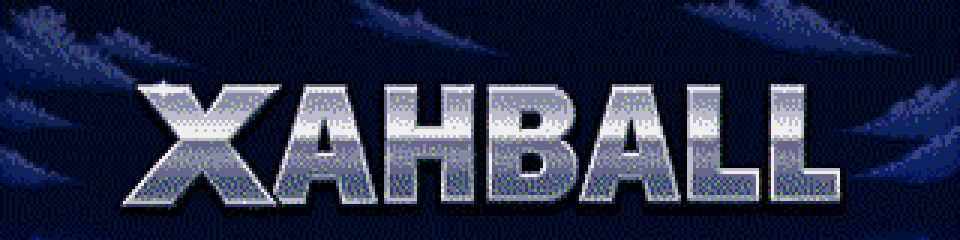
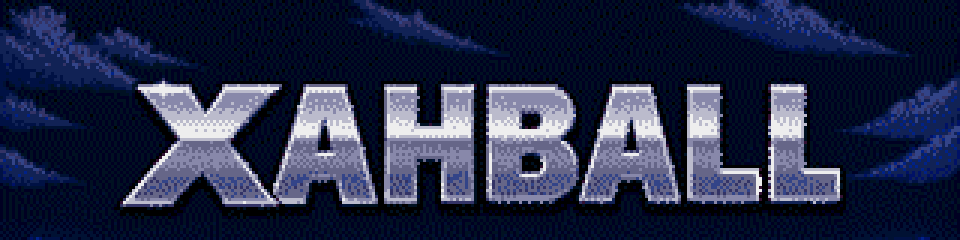
Ship ball sprite in builds, plain 1v1 player discs, art refresh
- CMake: ball.png was never converted, so release/CI archives had no
  data/ball.bm / ball.msk and the match could not load the ball (local
  builds only worked thanks to a stale file in the build dir). Players
  had to copy them over from another download.
- 1v1 uses new un-numbered teamA/teamB discs (normal/flash/ready);
  2v2/3v3 keep the numbered ones. make_sprites.py generates both.
- Updated title artwork and itch cover/banner.

diff --git a/game/src/match_render.c b/game/src/match_render.c
@@ -19,7 +19,8 @@
 // (render-private state)
 
 // Numbered kit sprites, [side][slot 0..2] - the slot number is baked into
-// the sprite so players are distinguishable on the pitch
+// the sprite so players are distinguishable on the pitch (1v1 loads the
+// plain un-numbered disc into every slot instead)
 static tDiscSprite *s_pSpriteKit[2][SLOTS_PER_SIDE];
 static tDiscSprite *s_pSpriteKitFlash[2][SLOTS_PER_SIDE];
 static tDiscSprite *s_pSpriteKitReady[2][SLOTS_PER_SIDE];
@@ -115,11 +116,16 @@ void matchRenderLoadSprites(void) {
 	char szBm[32], szMsk[32];
 	for(UBYTE ubSide = 0; ubSide < 2; ++ubSide) {
 		for(UBYTE ubNum = 0; ubNum < SLOTS_PER_SIDE; ++ubNum) {
+			// 1v1: a lone player needs no number - use the plain disc
+			char szNum[2] = {0, 0};
+			if(g_sMatchConfig.ubPlayersPerSide > 1) {
+				szNum[0] = '1' + ubNum;
+			}
 			for(UBYTE ubVar = 0; ubVar < 3; ++ubVar) {
-				sprintf(szBm, "data/team%s%d%s.bm",
-					s_pSideCodes[ubSide], ubNum + 1, s_pVariants[ubVar]);
-				sprintf(szMsk, "data/team%s%d%s.msk",
-					s_pSideCodes[ubSide], ubNum + 1, s_pVariants[ubVar]);
+				sprintf(szBm, "data/team%s%s%s.bm",
+					s_pSideCodes[ubSide], szNum, s_pVariants[ubVar]);
+				sprintf(szMsk, "data/team%s%s%s.msk",
+					s_pSideCodes[ubSide], szNum, s_pVariants[ubVar]);
 				tDiscSprite **ppSpr = (ubVar == 0) ? &s_pSpriteKit[ubSide][ubNum]
 					: (ubVar == 1) ? &s_pSpriteKitFlash[ubSide][ubNum]
 					: &s_pSpriteKitReady[ubSide][ubNum];

diff --git a/tools/make_sprites.py b/tools/make_sprites.py
@@ -139,6 +139,10 @@ def main():
     # Player discs carry their slot number (1..3 per side) so players are
     # distinguishable; all three variants (normal/flash/ready) are numbered
     for side, fill in (("A", KIT_A), ("B", KIT_B)):
+        # Plain (un-numbered) discs for 1v1, where numbers carry no info
+        make_disc(os.path.join(OUT, f"team{side}.png"), fill, BLACK)
+        make_disc(os.path.join(OUT, f"team{side}-flash.png"), fill, AMBER)
+        make_disc(os.path.join(OUT, f"team{side}-ready.png"), fill, WHITE)
         for num in (1, 2, 3):
             make_disc(os.path.join(OUT, f"team{side}{num}.png"), fill, BLACK, digit=num)
             make_disc(os.path.join(OUT, f"team{side}{num}-flash.png"), fill, AMBER, digit=num)
